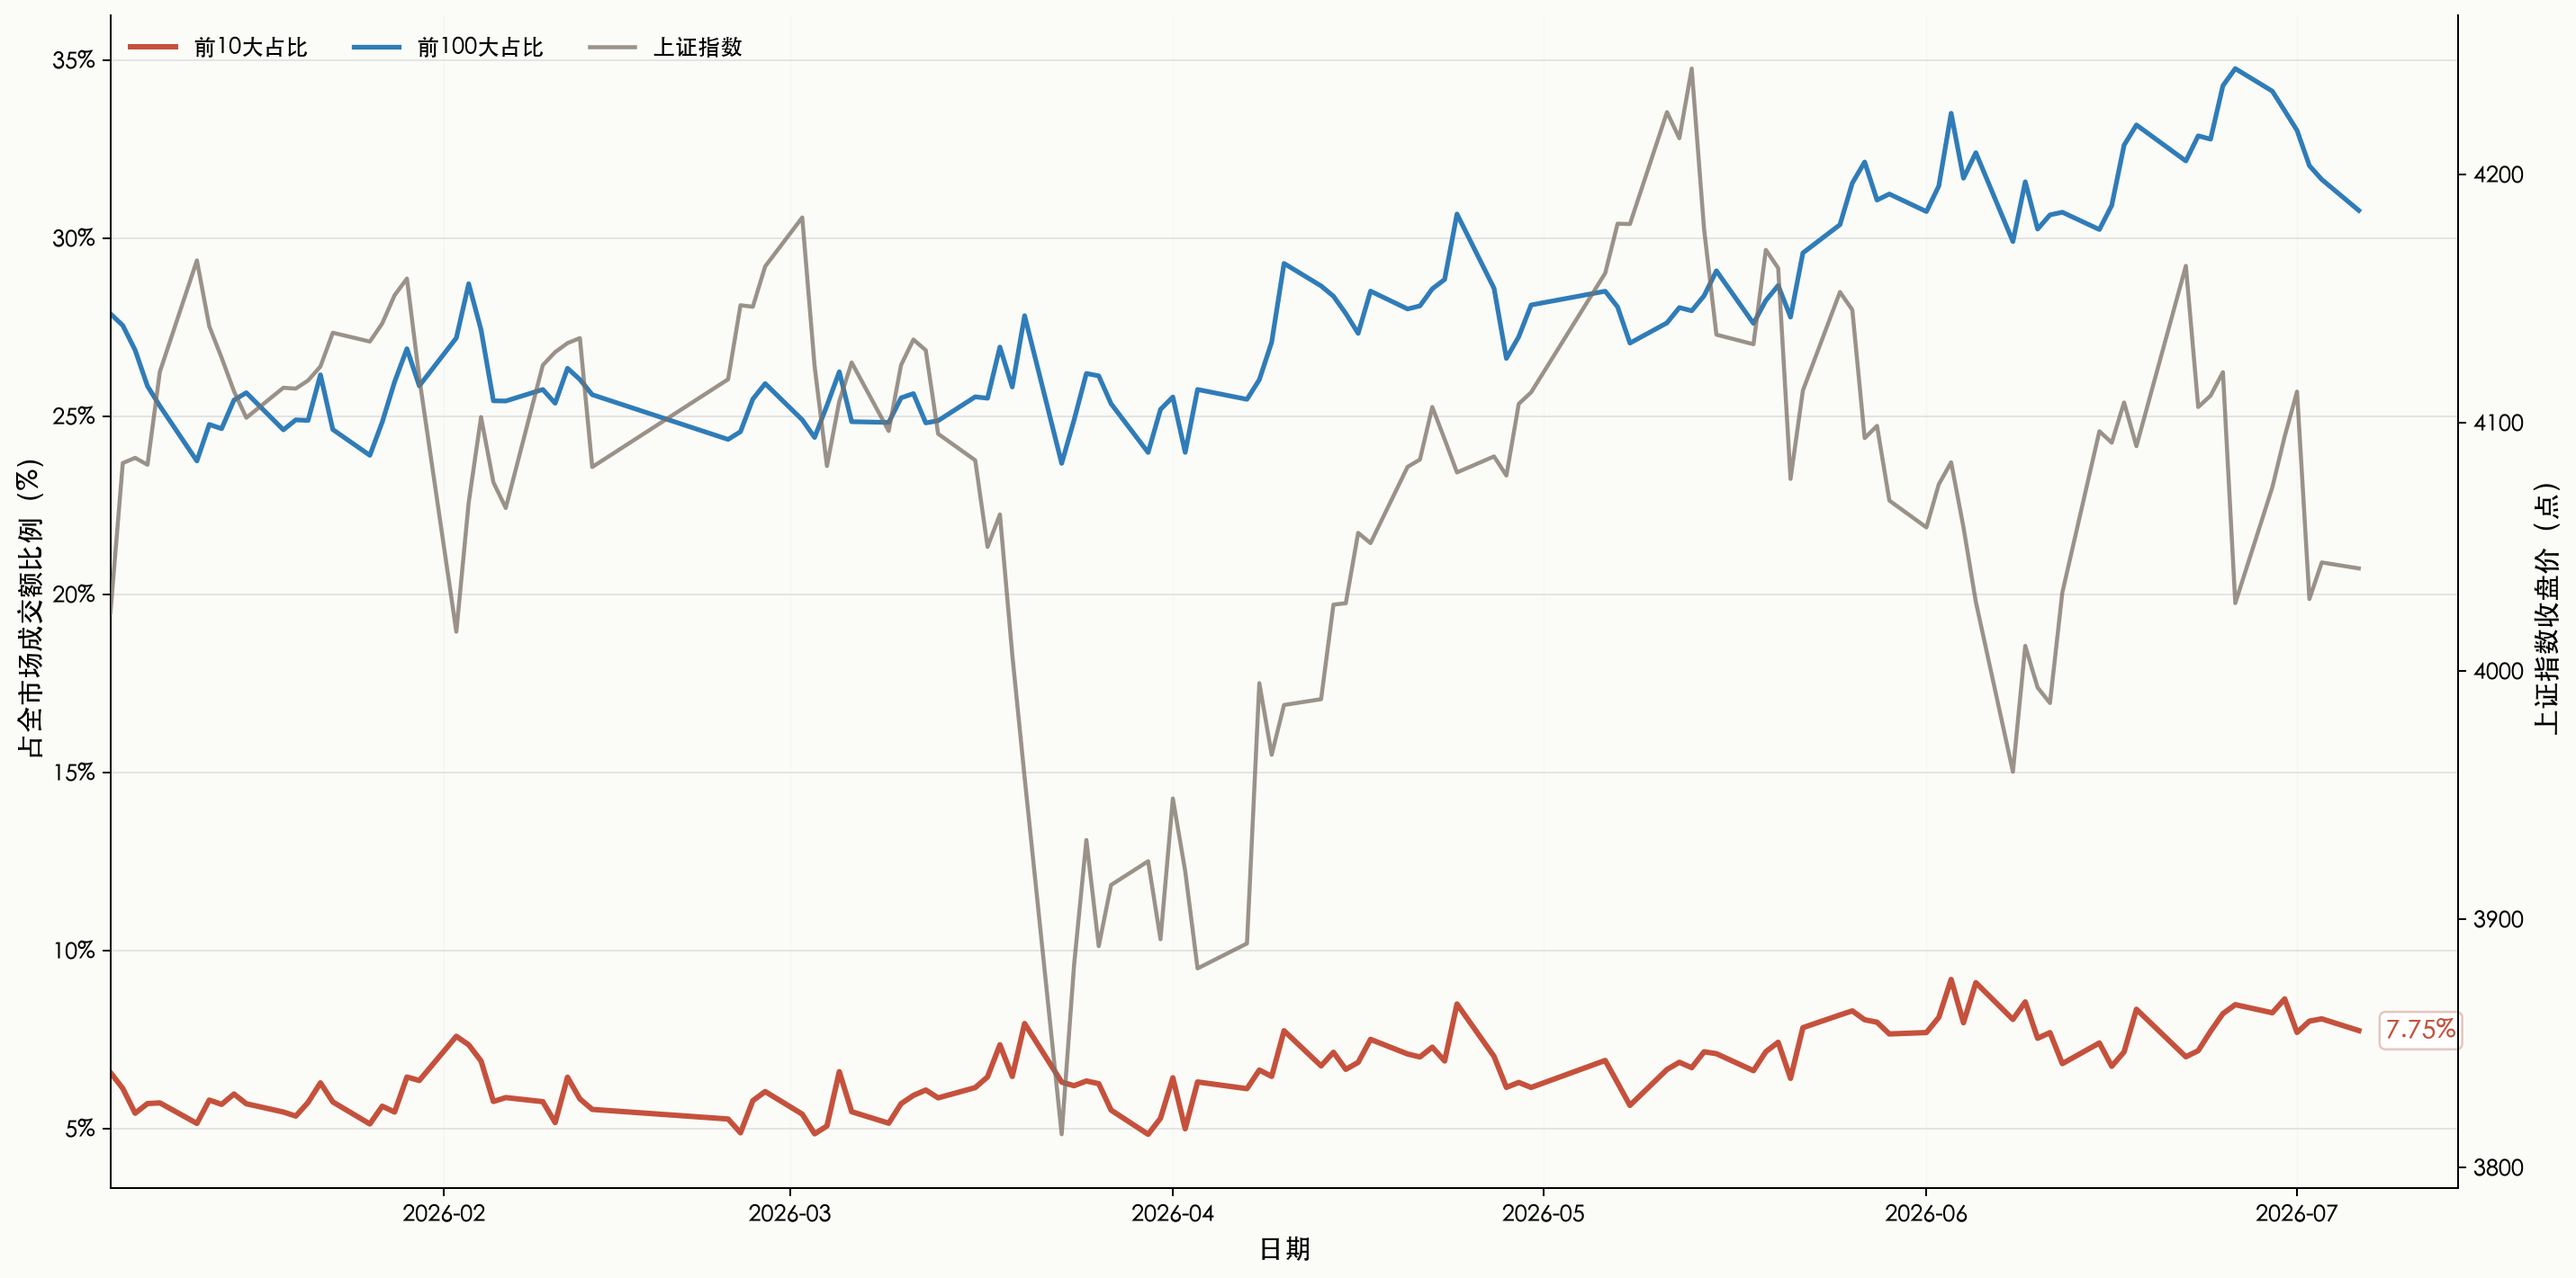
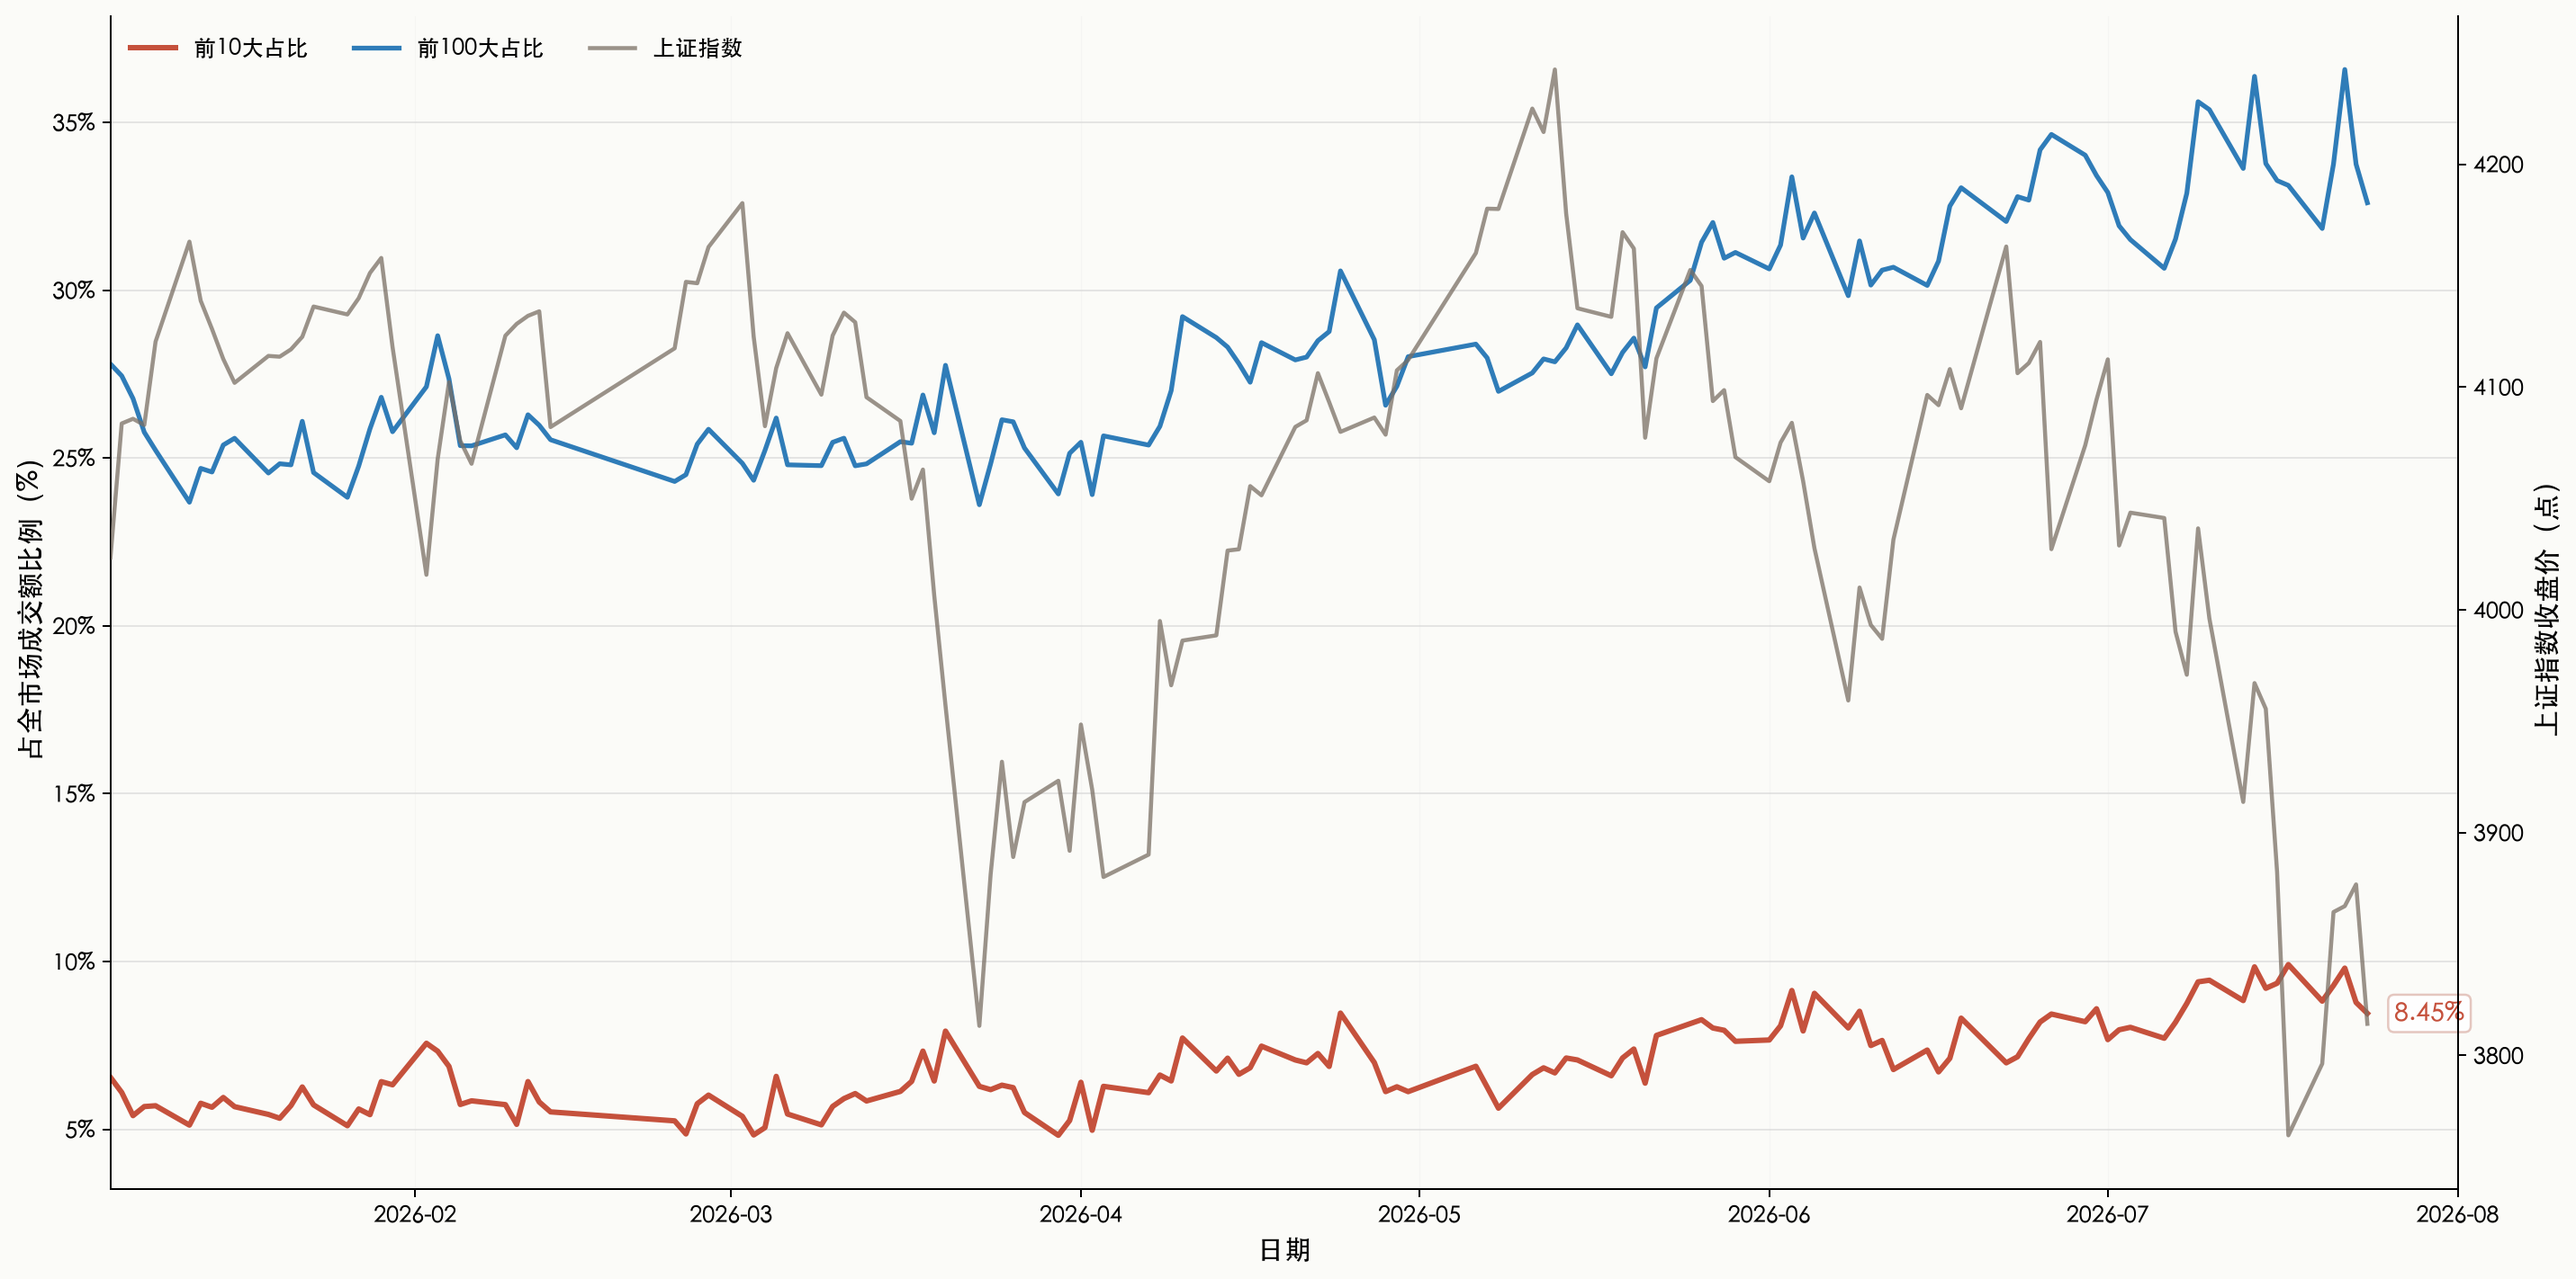
rebuild after merge

diff --git a/index.html b/index.html
@@ -11,8 +11,8 @@
     <header class="page-head">
       <div><p class="eyebrow">Vibe Research</p><h1>投研数据手册</h1></div>
       <div class="meta">
-        <div class="meta-line"><span class="live-dot" aria-hidden="true"></span>更新：2026-07-07 09:17:22</div>
-        <div class="meta-line">区间：2025-01-01 至 2026-07-06</div>
+        <div class="meta-line"><span class="live-dot" aria-hidden="true"></span>更新：2026-07-24 15:53:21</div>
+        <div class="meta-line">区间：2025-01-01 至 2026-07-24</div>
         <button class="refresh-button" type="button" id="refresh-data">刷新数据</button>
         <div class="refresh-status" id="refresh-status" role="status" aria-live="polite"></div>
       </div>
@@ -79,8 +79,8 @@
     <section class="category-panel" id="panel-valuation" data-category="valuation" hidden>
       <div class="category-head"><span class="sec-num">03</span><h2>估值</h2></div>
       <section class="chart-section">
-      <h2><span class="chart-num">006</span>沪深300指数历史滚动市盈率及标准差通道（截至2026-07-03）<span class="freq-badge">日频</span></h2>
-      <img src="assets/charts/fig_004a_hs300_pe_ttm_channel.png?v=20260706" alt="沪深300指数历史滚动市盈率及标准差通道（截至2026-07-03）">
+      <h2><span class="chart-num">006</span>沪深300指数历史滚动市盈率及标准差通道（截至2026-07-24）<span class="freq-badge">日频</span></h2>
+      <img src="assets/charts/fig_004a_hs300_pe_ttm_channel.png?v=20260724" alt="沪深300指数历史滚动市盈率及标准差通道（截至2026-07-24）">
       <div class="chart-notes">
           <p><strong>数据说明：</strong>统计区间自 2020-01-01 起；PE_TTM 序列按交易日历史数据绘制，水平虚线分别为均值、均值±1倍标准差、均值±2倍标准差。</p>
           <p><strong>风险提示：</strong>估值分位和标准差通道仅反映历史相对位置，不代表合理估值中枢；若指数成分或口径调整，历史可比性会受影响。</p>
@@ -88,8 +88,8 @@
     </section>
 
       <section class="chart-section">
-      <h2><span class="chart-num">007</span>上证指数历史滚动市盈率及标准差通道（截至2026-07-03）<span class="freq-badge">日频</span></h2>
-      <img src="assets/charts/fig_004b_sse_pe_ttm_channel.png?v=20260706" alt="上证指数历史滚动市盈率及标准差通道（截至2026-07-03）">
+      <h2><span class="chart-num">007</span>上证指数历史滚动市盈率及标准差通道（截至2026-07-24）<span class="freq-badge">日频</span></h2>
+      <img src="assets/charts/fig_004b_sse_pe_ttm_channel.png?v=20260724" alt="上证指数历史滚动市盈率及标准差通道（截至2026-07-24）">
       <div class="chart-notes">
           <p><strong>数据说明：</strong>统计区间自 2020-01-01 起；PE_TTM 序列按交易日历史数据绘制，水平虚线分别为均值、均值±1倍标准差、均值±2倍标准差。</p>
           <p><strong>风险提示：</strong>估值分位和标准差通道仅反映历史相对位置，不代表合理估值中枢；若指数成分或口径调整，历史可比性会受影响。</p>
@@ -114,7 +114,7 @@
       </section>
       <section class="chart-section">
         <h2><span class="chart-num">009</span>沪深300/上证指数 vs. 大宽基ETF资金流<span class="freq-badge">日频</span></h2>
-        <img src="assets/charts/fig_001_broad_etf_flow.png?v=20260706" alt="沪深300与上证指数走势及大宽基ETF资金流">
+        <img src="assets/charts/fig_001_broad_etf_flow.png?v=20260724" alt="沪深300与上证指数走势及大宽基ETF资金流">
         <div class="chart-notes">
           <p><strong>数据说明：</strong>样本：510300、510310、510330、159919、510050。上交所 ETF 份额来自上交所历史规模接口；159919 份额来自深交所基金规模日频接口。净流入口径为份额变化乘以单位净值；7日滚动合计按交易日滚动计算。</p>
           <p><strong>风险提示：</strong>净流入为 0 或长时间缺失时，可能代表 ETF 份额未更新、接口未披露或数据源暂不可用，不应机械解读为真实无申赎。</p>
@@ -122,7 +122,7 @@
       </section>
       <section class="chart-section">
         <h2><span class="chart-num">010</span>科创50指数 vs. 科创50ETF资金流<span class="freq-badge">日频</span></h2>
-        <img src="assets/charts/fig_002_star50_etf_flow.png?v=20260706" alt="科创50指数走势及科创50ETF资金流">
+        <img src="assets/charts/fig_002_star50_etf_flow.png?v=20260724" alt="科创50指数走势及科创50ETF资金流">
         <div class="chart-notes">
           <p><strong>数据说明：</strong>样本：588000 华夏科创50ETF。净流入口径为份额变化乘以单位净值；7日滚动合计按交易日滚动计算。</p>
           <p><strong>风险提示：</strong>净流入为 0 或长时间缺失时，可能代表 ETF 份额未更新、接口未披露或数据源暂不可用，不应机械解读为真实无申赎。</p>
@@ -141,8 +141,8 @@
         </div>
       </section>
       <section class="chart-section">
-        <h2><span class="chart-num">012</span>A股成交额前10大公司交易集中度变化（截至2026-07-06）<span class="freq-badge">日频</span></h2>
-        <img src="assets/charts/fig_003_a_share_turnover_concentration.png?v=20260706" alt="A股成交额前10大公司交易集中度变化">
+        <h2><span class="chart-num">012</span>A股成交额前10大公司交易集中度变化（截至2026-07-24）<span class="freq-badge">日频</span></h2>
+        <img src="assets/charts/fig_003_a_share_turnover_concentration.png?v=20260724" alt="A股成交额前10大公司交易集中度变化">
         <div class="chart-notes">
           <p><strong>数据说明：</strong>样本覆盖当前沪深京A股清单；逐日计算前10、前100成交额占比。右轴为上证指数收盘价。</p>
           <p><strong>风险提示：</strong>个股成交额排名依赖公开行情接口完整性；停牌、新股、北交所覆盖和接口延迟都可能影响集中度读数。</p>

diff --git a/site/index.html b/site/index.html
@@ -11,8 +11,8 @@
     <header class="page-head">
       <div><p class="eyebrow">Vibe Research</p><h1>投研数据手册</h1></div>
       <div class="meta">
-        <div class="meta-line"><span class="live-dot" aria-hidden="true"></span>更新：2026-07-07 09:17:22</div>
-        <div class="meta-line">区间：2025-01-01 至 2026-07-06</div>
+        <div class="meta-line"><span class="live-dot" aria-hidden="true"></span>更新：2026-07-24 15:53:21</div>
+        <div class="meta-line">区间：2025-01-01 至 2026-07-24</div>
         <button class="refresh-button" type="button" id="refresh-data">刷新数据</button>
         <div class="refresh-status" id="refresh-status" role="status" aria-live="polite"></div>
       </div>
@@ -79,8 +79,8 @@
     <section class="category-panel" id="panel-valuation" data-category="valuation" hidden>
       <div class="category-head"><span class="sec-num">03</span><h2>估值</h2></div>
       <section class="chart-section">
-      <h2><span class="chart-num">006</span>沪深300指数历史滚动市盈率及标准差通道（截至2026-07-03）<span class="freq-badge">日频</span></h2>
-      <img src="assets/charts/fig_004a_hs300_pe_ttm_channel.png?v=20260706" alt="沪深300指数历史滚动市盈率及标准差通道（截至2026-07-03）">
+      <h2><span class="chart-num">006</span>沪深300指数历史滚动市盈率及标准差通道（截至2026-07-24）<span class="freq-badge">日频</span></h2>
+      <img src="assets/charts/fig_004a_hs300_pe_ttm_channel.png?v=20260724" alt="沪深300指数历史滚动市盈率及标准差通道（截至2026-07-24）">
       <div class="chart-notes">
           <p><strong>数据说明：</strong>统计区间自 2020-01-01 起；PE_TTM 序列按交易日历史数据绘制，水平虚线分别为均值、均值±1倍标准差、均值±2倍标准差。</p>
           <p><strong>风险提示：</strong>估值分位和标准差通道仅反映历史相对位置，不代表合理估值中枢；若指数成分或口径调整，历史可比性会受影响。</p>
@@ -88,8 +88,8 @@
     </section>
 
       <section class="chart-section">
-      <h2><span class="chart-num">007</span>上证指数历史滚动市盈率及标准差通道（截至2026-07-03）<span class="freq-badge">日频</span></h2>
-      <img src="assets/charts/fig_004b_sse_pe_ttm_channel.png?v=20260706" alt="上证指数历史滚动市盈率及标准差通道（截至2026-07-03）">
+      <h2><span class="chart-num">007</span>上证指数历史滚动市盈率及标准差通道（截至2026-07-24）<span class="freq-badge">日频</span></h2>
+      <img src="assets/charts/fig_004b_sse_pe_ttm_channel.png?v=20260724" alt="上证指数历史滚动市盈率及标准差通道（截至2026-07-24）">
       <div class="chart-notes">
           <p><strong>数据说明：</strong>统计区间自 2020-01-01 起；PE_TTM 序列按交易日历史数据绘制，水平虚线分别为均值、均值±1倍标准差、均值±2倍标准差。</p>
           <p><strong>风险提示：</strong>估值分位和标准差通道仅反映历史相对位置，不代表合理估值中枢；若指数成分或口径调整，历史可比性会受影响。</p>
@@ -114,7 +114,7 @@
       </section>
       <section class="chart-section">
         <h2><span class="chart-num">009</span>沪深300/上证指数 vs. 大宽基ETF资金流<span class="freq-badge">日频</span></h2>
-        <img src="assets/charts/fig_001_broad_etf_flow.png?v=20260706" alt="沪深300与上证指数走势及大宽基ETF资金流">
+        <img src="assets/charts/fig_001_broad_etf_flow.png?v=20260724" alt="沪深300与上证指数走势及大宽基ETF资金流">
         <div class="chart-notes">
           <p><strong>数据说明：</strong>样本：510300、510310、510330、159919、510050。上交所 ETF 份额来自上交所历史规模接口；159919 份额来自深交所基金规模日频接口。净流入口径为份额变化乘以单位净值；7日滚动合计按交易日滚动计算。</p>
           <p><strong>风险提示：</strong>净流入为 0 或长时间缺失时，可能代表 ETF 份额未更新、接口未披露或数据源暂不可用，不应机械解读为真实无申赎。</p>
@@ -122,7 +122,7 @@
       </section>
       <section class="chart-section">
         <h2><span class="chart-num">010</span>科创50指数 vs. 科创50ETF资金流<span class="freq-badge">日频</span></h2>
-        <img src="assets/charts/fig_002_star50_etf_flow.png?v=20260706" alt="科创50指数走势及科创50ETF资金流">
+        <img src="assets/charts/fig_002_star50_etf_flow.png?v=20260724" alt="科创50指数走势及科创50ETF资金流">
         <div class="chart-notes">
           <p><strong>数据说明：</strong>样本：588000 华夏科创50ETF。净流入口径为份额变化乘以单位净值；7日滚动合计按交易日滚动计算。</p>
           <p><strong>风险提示：</strong>净流入为 0 或长时间缺失时，可能代表 ETF 份额未更新、接口未披露或数据源暂不可用，不应机械解读为真实无申赎。</p>
@@ -141,8 +141,8 @@
         </div>
       </section>
       <section class="chart-section">
-        <h2><span class="chart-num">012</span>A股成交额前10大公司交易集中度变化（截至2026-07-06）<span class="freq-badge">日频</span></h2>
-        <img src="assets/charts/fig_003_a_share_turnover_concentration.png?v=20260706" alt="A股成交额前10大公司交易集中度变化">
+        <h2><span class="chart-num">012</span>A股成交额前10大公司交易集中度变化（截至2026-07-24）<span class="freq-badge">日频</span></h2>
+        <img src="assets/charts/fig_003_a_share_turnover_concentration.png?v=20260724" alt="A股成交额前10大公司交易集中度变化">
         <div class="chart-notes">
           <p><strong>数据说明：</strong>样本覆盖当前沪深京A股清单；逐日计算前10、前100成交额占比。右轴为上证指数收盘价。</p>
           <p><strong>风险提示：</strong>个股成交额排名依赖公开行情接口完整性；停牌、新股、北交所覆盖和接口延迟都可能影响集中度读数。</p>
